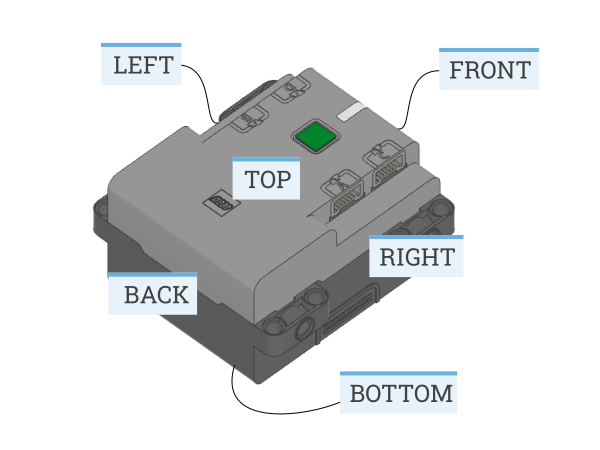
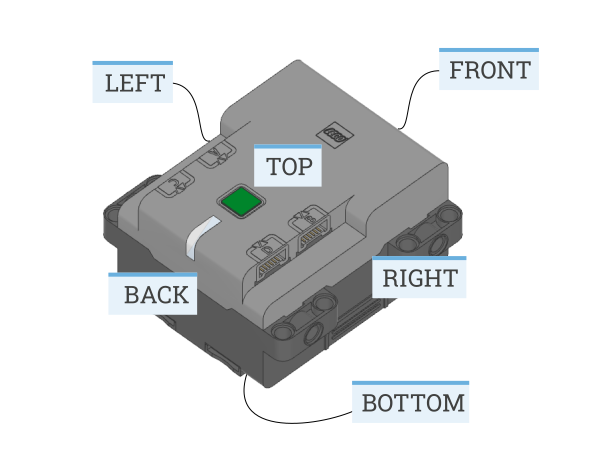
pybricks.parameters.Side: Change Technic Hub orientation.
This makes it consistent with other hubs.

See: https://github.com/pybricks/support/issues/848

The IMU section was not included in V3.1 so it is not a breaking change,
but we add a versionchanged comment just in case.

diff --git a/doc/main/parameters/side.rst b/doc/main/parameters/side.rst
@@ -56,7 +56,11 @@ Side
     .. figure:: ../../main/diagrams/orientation_technichub.png
         :width: 60%
 
+    .. versionchanged:: 3.2
+
+        Changed which side is the front.
+
     **Tilt Sensor**
 
     .. figure:: ../../main/diagrams/orientation_tiltsensor.png
-        :width: 60%
+        :width: 50%

diff --git a/CHANGELOG.md b/CHANGELOG.md
@@ -4,6 +4,10 @@
 
 ## Unreleased
 
+### Changed
+- Updated "front" side of the Technic Hub to be consistent with
+  the Prime Hub.
+
 ## 3.2.0b6 - 2022-12-02
 
 ### Added
